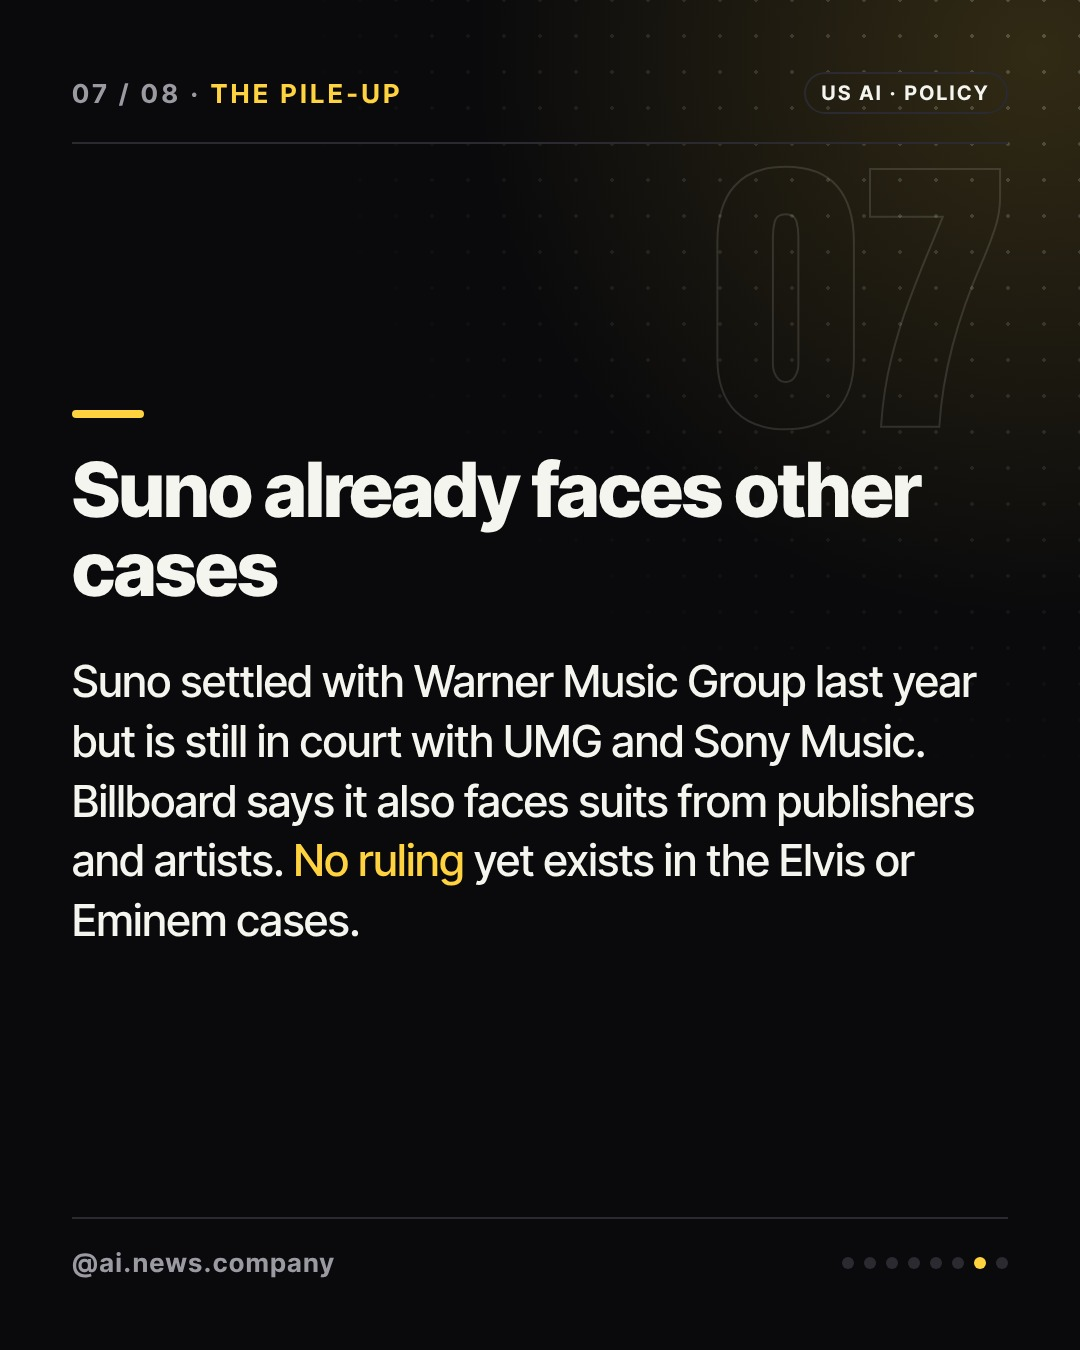
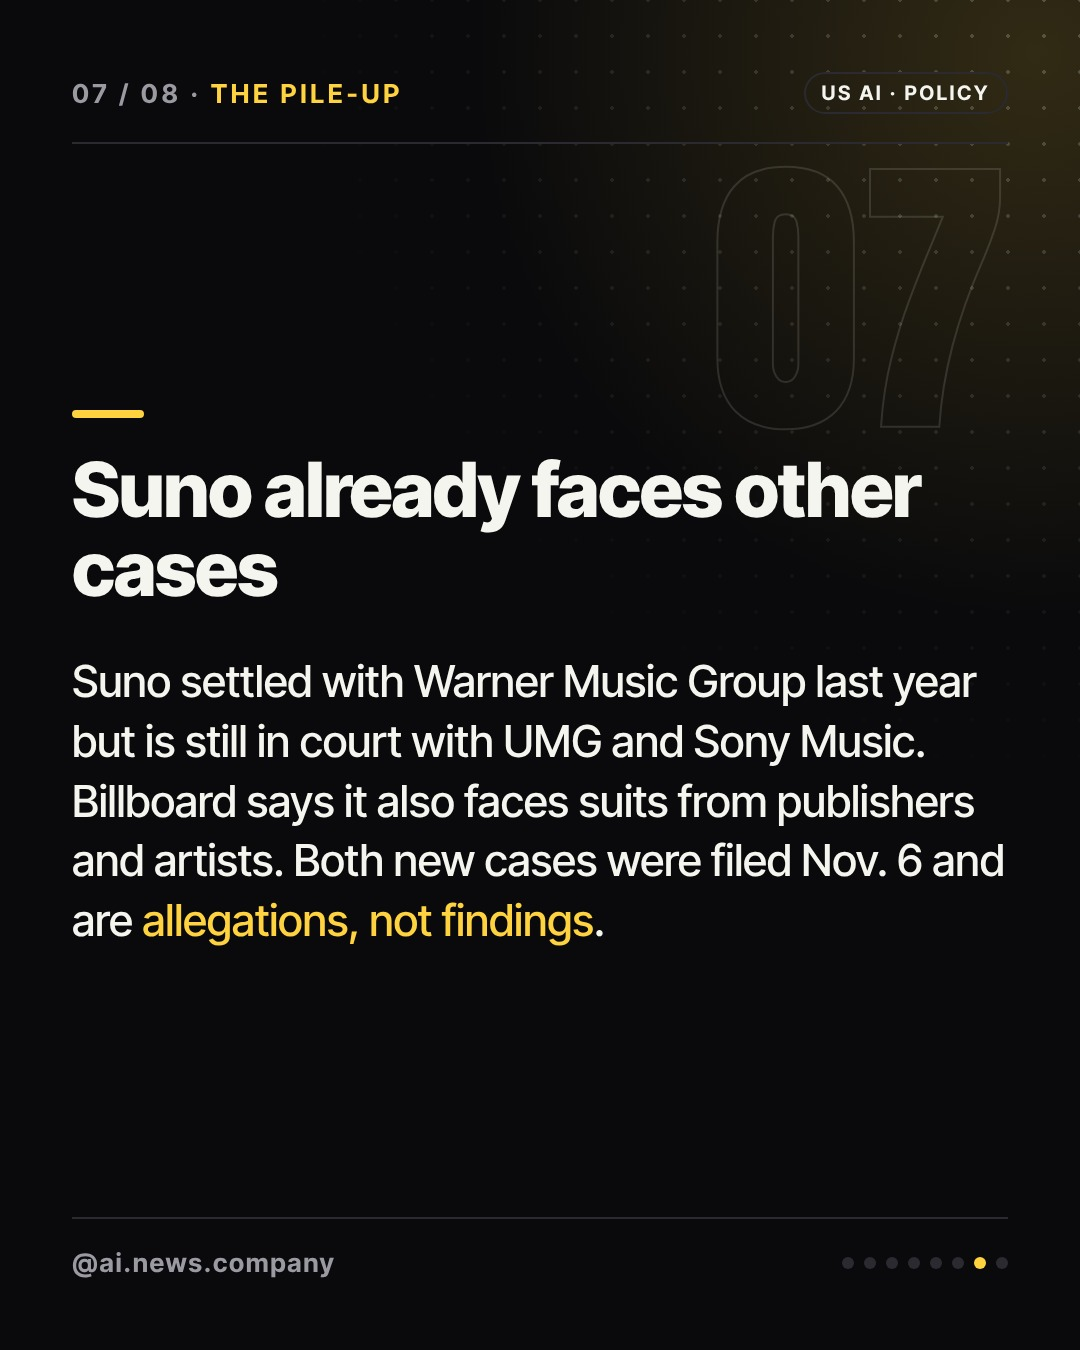
post: 2026-11-08 evening Suno lawsuit (blocked after 2 fact-check rounds) + evening report
Claude-Session: https://claude.ai/code/session_01HGJzPRXvGNj5toq5Kkw9ex

Changed region(s): [[0.0611, 0.6222, 0.9472, 0.7156]]

diff --git a/ops/run-log.md b/ops/run-log.md
@@ -2,6 +2,19 @@
 
 Newest first. Format is in CLAUDE.md ("보고").
 
+## [저녁 보고] 2026-11-08
+처리 1건 (blocked 1) · 실패 0건 · 오늘 20:57 슬롯 비어 있음
+결정할 일
+1. `2026-11-08-suno-elvis-eminem`이 2회 검수 불합격으로 blocked (20:57 게시 안 됨). 둘 다 fact-checker 불합격이고 hook-judge(7/10)와 brand-safety는 1차 통과. 1차: 슬라이드 6 "No ruling yet exists"가 원문에 없음 → 수정함. 2차: 슬라이드 2 "Earlier suits focused on training data."가 과장 (Billboard는 Isbell 초상권 소송과 소규모 아티스트 집단소송도 언급). 남은 수정은 한 문장: "Earlier label suits focused on training data." 로 바꾸고 status를 ready로 바꾸면 게시 가능 (재검수 권장, 실제 수정 후 fact-checker 3차는 안 돌림)
+2. 출처: Billboard(2026-11-07 15:38Z, 전문 확인), The Daily Star(51쪽·859곡 수치, 앞부분만 읽힘, 게재일 없음 → "Nov 2026"). 첫 보도 Billboard 11-07 15:38Z; The Verge 합본 보도 11-08 17:23Z(403, 못 읽음)로 신선 가산 +2를 적용해 점수 7. 아침 글(Baidu, AI타임스)과 다른 회사·매체
+3. 커버: Higgsfield cinematic_studio_2_5 1장, 2크레딧 (아침 2 포함 오늘 합계 4/6). 사람·글자 없음. 렌더는 CHROMIUM_PATH=/opt/pw-browsers/chromium 필요. brand-safety 비차단 의견: 훅 "AI SOUNDS LIKE ELVIS. SUED."은 누가 누구를 고소했는지 모호, 커버 image_url이 비어 있어(파일 cover.png로 저장) AI 생성 여부는 파일만으로 확인 불가
+4. 인스타그램 토큰 없음(IG_*): 참고 계정 미사용. 후보 9개 (새 2, 이월 7). 예비 1순위: 유럽 데이터센터 시위(Euronews, heise), Anthropic 단백질 구조, 삼성–구글 AI 글라스(11/12 시간 민감)
+자세한 기록
+- 19:15 시작. 백로그 확인: main에 ready 글 없음
+- 후보 선정: Suno 소송 (US AI · POLICY, 점수 7). id `2026-11-08-suno-elvis-eminem`
+- 검수 1차: fact 불합격, hook 통과 7/10, brand-safety 통과. 2차: fact 불합격 (hook, brand-safety 재검수 없음, 수정이 문구 1곳)
+- 푸시는 세션 지정 브랜치 claude/inspiring-darwin-x90oay (daily/ 아님)
+
 ## [아침 보고] 2026-11-08
 처리 1건 (ready 1) · 실패 0건 · 주간 모음 blocked 1건
 성과: 어제 도달 9 · 팔로워 2 · 링크 클릭 0 · 최고 도달 2026-11-01-weekly (47)

diff --git a/posts/2026-11-08-suno-elvis-eminem/review-fact.md b/posts/2026-11-08-suno-elvis-eminem/review-fact.md
@@ -1,0 +1,8 @@
+# Fact review, round 2: 2026-11-08-suno-elvis-eminem
+Result: FAIL (1 issue)
+
+Both sources opened with scripts/article.mjs. The Daily Star text was short but did include the 51 pages and 859 compositions.
+
+- Cover, slides 1, 3, 4, 5 and 6, caption and threads_caption: all match the articles.
+- Slide 6 (rewritten) is confirmed. The Warner settlement, the UMG and Sony litigation, the suits from publishers and artists, and the Nov. 6 filing date all appear in Billboard.
+- Slide 2: "Earlier suits focused on training data" is overstated. Billboard says Suno already faces likeness cases (Isbell, and a class action by smaller artists). Fix: "Earlier label suits focused on training data", or say the filing echoes the Anthropic suit and adds voice claims.
